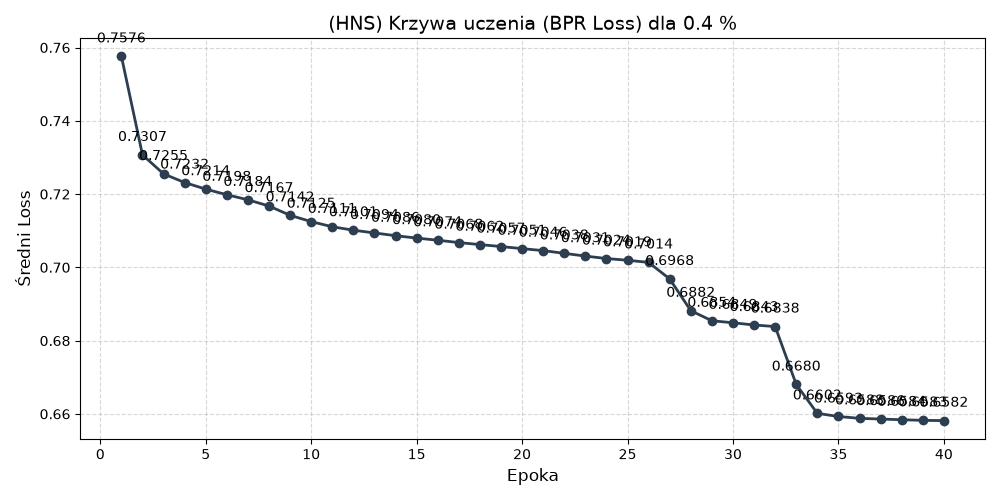
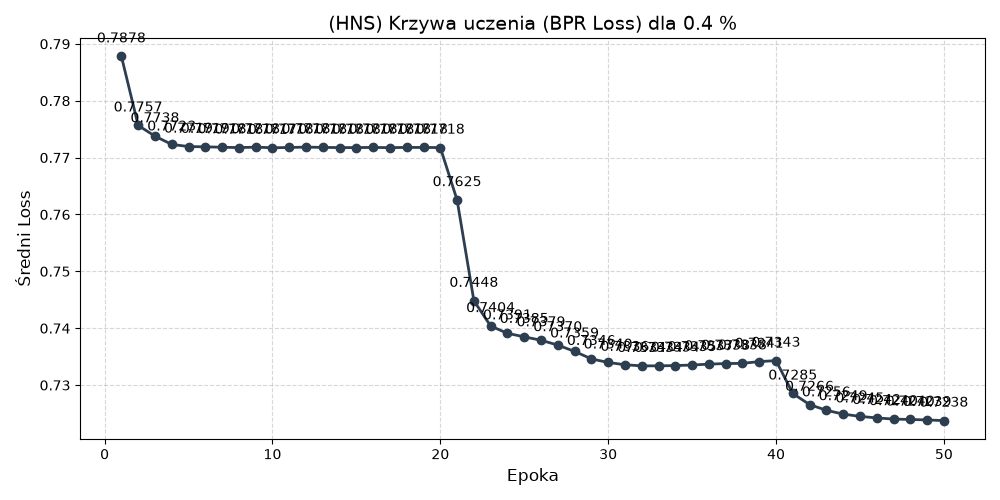
Zmiana batch size

diff --git a/NGCF/main.py b/NGCF/main.py
@@ -16,7 +16,7 @@ NGCF_PATH = 'ngcf_model.pth'
 HNS_PATH = 'ngcf_model_hns.pth'
 DEVICE = torch.device('cuda' if torch.cuda.is_available() else 'cpu')
 
-BATCH_SIZE = 1024
+BATCH_SIZE = 512
 EMB_DIM = 64
 LAYERS = [64, 64, 64]  #2 warswy so far
 DROPOUTS = [0.3, 0.3, 0.3]
